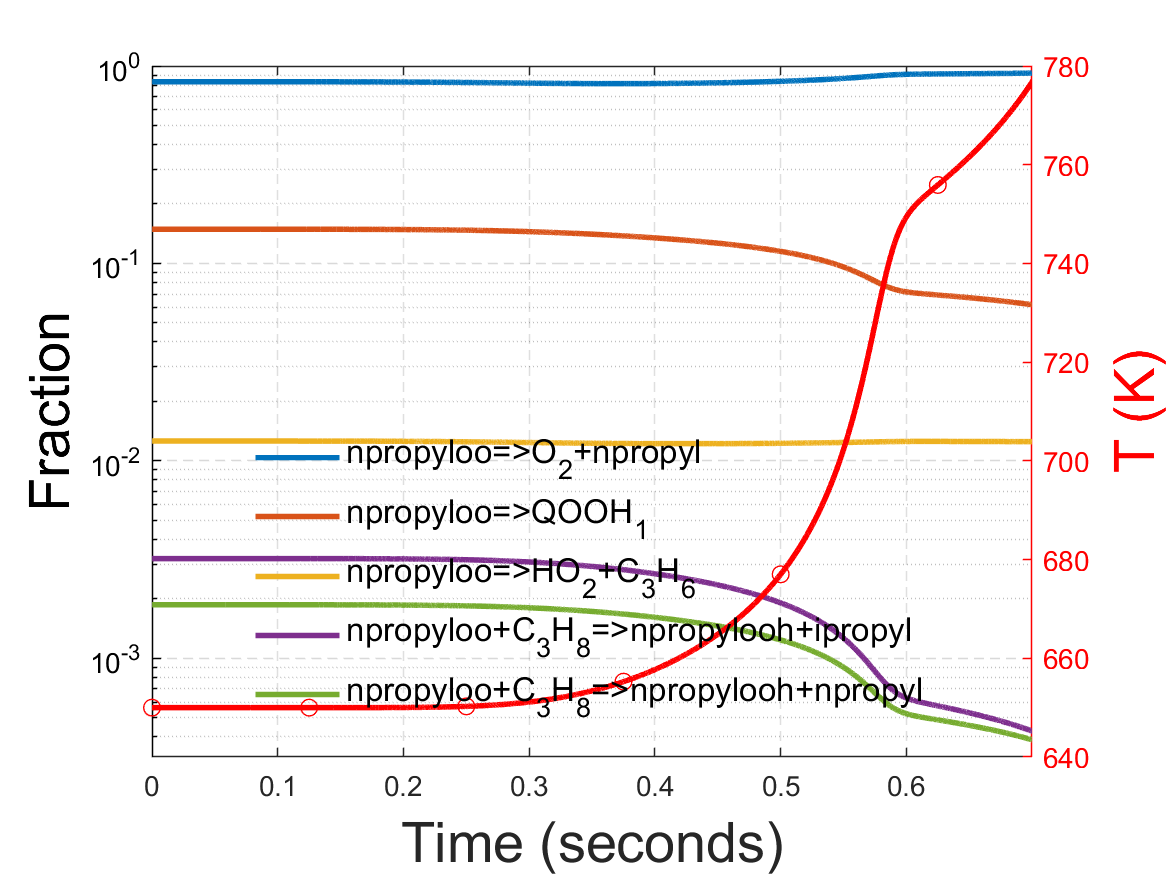
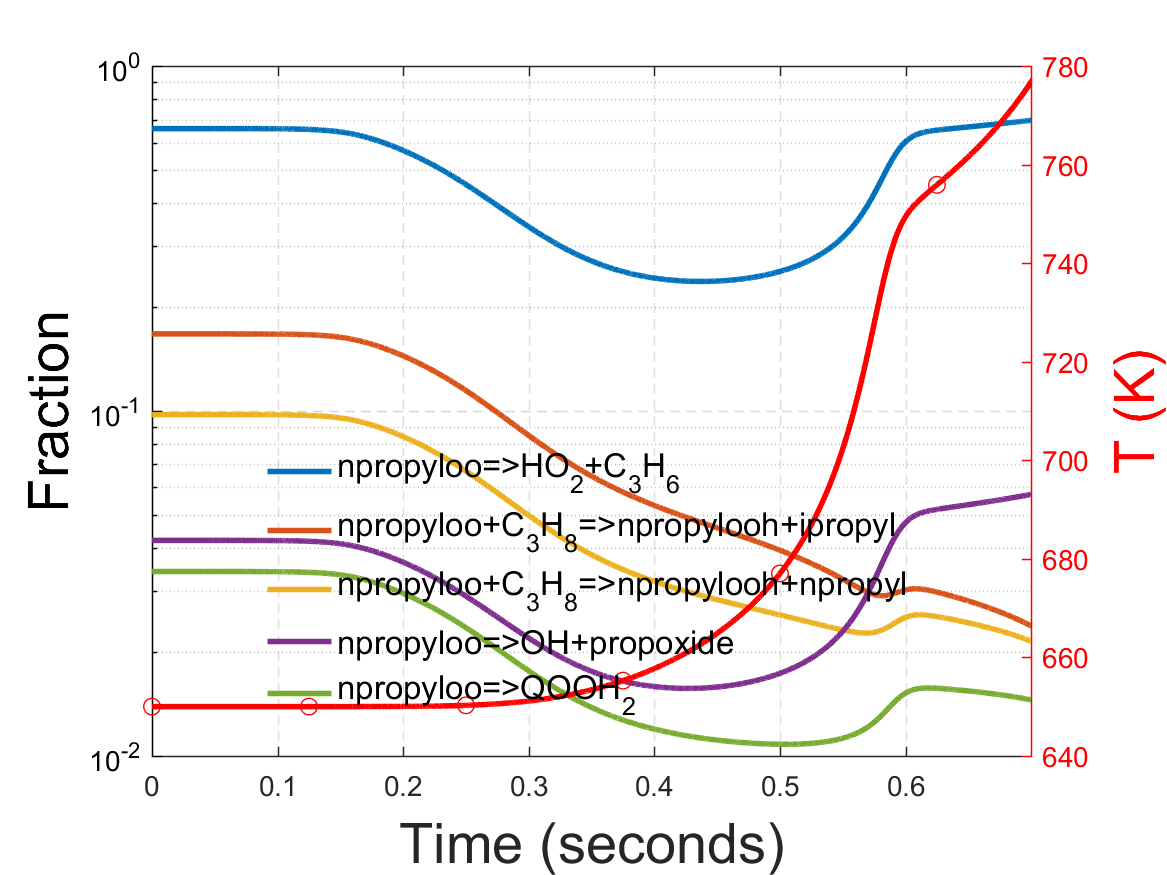
minor

diff --git a/theory/misc/npropyloo_sink_reaction_ratio/sink_reaction_ratio_top_5.m b/theory/misc/npropyloo_sink_reaction_ratio/sink_reaction_ratio_top_5.m
@@ -82,6 +82,19 @@ end
 
 R_name = {'npropyloo+C_3H_8=>npropylooh+npropyl', 'npropyloo+C_3H_8=>npropylooh+ipropyl', 'C_3H_6+npropyloo=>allyl+npropylooh', 'npropyloo+CH_2O=>npropylooh+HCO', 'npropyloo+acetaldehyde=>npropylooh+acetyl', 'npropyloo+HO_2=>npropylooh+O_2', 'C_2H_4+npropyloo=>C_2H_3+npropylooh', 'CH_3OH+npropyloo=>CH_2OH+npropylooh', 'acrolein+npropyloo=>CH_2CHCO+npropylooh', 'CH_4+npropyloo=>CH_3+npropylooh', 'npropyloo+CH_3OO=>npropyloxy+CH_3O+O_2', 'H_2+npropyloo=>H+npropylooh', 'npropyloo+C_2H_6=>npropylooh+C_2H_5', 'npropyloo+propanal=>npropylooh+propionyl', 'npropyloo+acetylperoxy=>npropyloxy+acetyloxy+O_2', 'npropyloo+CH_3CH_2OO=>npropyloxy+ethoxy+O_2', 'npropyloo+npropyloo=>O_2+npropyloxy+npropyloxy', 'ipropyloo+npropyloo=>ipropyloxy+npropyloxy+O_2', 'npropyloo+CH_3=>npropyloxy+CH_3O', 'npropyloo+C_2H_5=>npropyloxy+ethoxy', 'npropyloo+ipropyl=>npropyloxy+ipropyloxy', 'npropyloo+npropyl=>npropyloxy+npropyloxy', 'npropyloo+allyl=>npropyloxy+allyloxy', 'npropyloo=>O_2+npropyl', 'npropyloo=>QOOH_2', 'npropyloo=>QOOH_1', 'npropyloo=>HO_2+C_3H_6', 'npropyloo=>OH+propoxide'};
 
+%% chattering reactions
+chattering_R_idx = [1068, 1069, 1096, 1097, 1080, 1081];
+R_idx_reduced = {};
+R_name_reduced = {};
+for i=1:length(R_idx)
+    if ~ ismember(R_idx(i)-1, chattering_R_idx)
+        R_idx_reduced{end+1} = R_idx(i);
+        R_name_reduced{end+1} = R_name{1,i};
+    end
+end
+R_idx = cell2mat(R_idx_reduced);
+R_name = R_name_reduced;
+
 R_mat = reaction_R_mat(:, R_idx);
 
 % sort by the reaction rates around 0.5 tau, idx == 3550 for example
@@ -114,7 +127,7 @@ end
 set(gca,'GridLineStyle','--');
 xlabel('Time (seconds)', 'FontSize', 20);
 ylabel('Fraction', 'FontSize', 20);
-ylim([10^-3.5, 10^0]);
+ylim([10^-2, 10^0]);
 
 %% temp
 yyaxis right

diff --git a/theory/misc/ipropyloo_sink_reaction_ratio/sink_reaction_ratio_top_5.m b/theory/misc/ipropyloo_sink_reaction_ratio/sink_reaction_ratio_top_5.m
@@ -83,7 +83,7 @@ end
 R_name = {'ipropyloo+C_3H_8=>ipropylooh+npropyl', 'ipropyloo+C_3H_8=>ipropylooh+ipropyl', 'C_3H_6+ipropyloo=>allyl+ipropylooh', 'ipropyloo+CH_2O=>ipropylooh+HCO', 'ipropyloo+acetaldehyde=>ipropylooh+acetyl', 'ipropyloo+HO_2=>ipropylooh+O_2', 'C_2H_4+ipropyloo=>C_2H_3+ipropylooh', 'CH_3OH+ipropyloo=>CH_2OH+ipropylooh', 'acrolein+ipropyloo=>CH_2CHCO+ipropylooh', 'CH_4+ipropyloo=>CH_3+ipropylooh', 'ipropyloo+CH_3OO=>ipropyloxy+CH_3O+O_2', 'H_2+ipropyloo=>H+ipropylooh', 'ipropyloo+C_2H_6=>ipropylooh+C_2H_5', 'ipropyloo+propanal=>ipropylooh+propionyl', 'ipropyloo+acetylperoxy=>ipropyloxy+acetyloxy+O_2', 'ipropyloo+CH_3CH_2OO=>ipropyloxy+ethoxy+O_2', 'ipropyloo+ipropyloo=>O_2+ipropyloxy+ipropyloxy', 'ipropyloo+npropyloo=>ipropyloxy+npropyloxy+O_2', 'ipropyloo+CH_3=>ipropyloxy+CH_3O', 'ipropyloo+C_2H_5=>ipropyloxy+ethoxy', 'ipropyloo+ipropyl=>ipropyloxy+ipropyloxy', 'ipropyloo+npropyl=>ipropyloxy+npropyloxy', 'ipropyloo+allyl=>ipropyloxy+allyloxy', 'ipropyloo=>O_2+ipropyl', 'ipropyloo=>QOOH_3', 'ipropyloo=>HO_2+C_3H_6', 'ipropyloo=>OH+propoxide'};
 
 %% chattering reactions
-chattering_R_idx = [1068, 1069, 1096, 1097];
+chattering_R_idx = [1068, 1069, 1096, 1097, 1080, 1081];
 R_idx_reduced = {};
 R_name_reduced = {};
 for i=1:length(R_idx)
@@ -92,7 +92,6 @@ for i=1:length(R_idx)
         R_name_reduced{end+1} = R_name{1,i};
     end
 end
-
 R_idx = cell2mat(R_idx_reduced);
 R_name = R_name_reduced;
 
